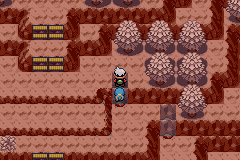
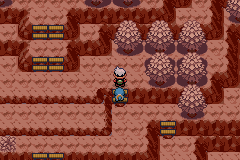
Use native yellow Jagged Pass stairs and clear upper landing tiles

Changed region(s): [[0.6417, 0.625, 0.7583, 0.875], [0.4667, 0.4375, 0.5542, 0.6562], [0.0, 0.8438, 0.0583, 0.9062]]

diff --git a/tools/hoenn/prepare_mach_bike.py b/tools/hoenn/prepare_mach_bike.py
@@ -82,12 +82,23 @@ def prepare(source):
                 decorative.append(dict(layout=layout['id'], x=x, y=y, tile=tile))
                 continue
             kind = 'stairs' if targets[behavior] == 'MB_BUMPY_SLOPE' else 'wood_bridge'
-            tile_definitions[(ap[secondary][0], ap[secondary][1], index)] = kind
-            # Elevation zero lets a staircase join the two original ledge levels.
-            new = mid if kind == 'stairs' else tile & ~0xC00
+            surface = None
+            if kind == 'stairs' and layout['id'] == 'LAYOUT_JAGGED_PASS':
+                # Acro hopping posts include a decoration on the upper floor.
+                # Do not put a stair there. Use the actual yellow lateral stair
+                # (Lavaridge 0x2AF) only on the cliff cells below that landing.
+                surface = 'landing' if mid in [0x303, 0x2FE] else 'yellow_stair'
+                new = 0x3271 if surface == 'landing' else 0x02AF
+            else:
+                tile_definitions[(ap[secondary][0], ap[secondary][1], index)] = kind
+                # Elevation zero lets a staircase join original ledge levels.
+                new = mid if kind == 'stairs' else tile & ~0xC00
             values[i] = new
             changed |= new != tile
-            replacements.append(dict(layout=layout['id'], x=x, y=y, before=tile, after=new, kind=kind))
+            entry = dict(layout=layout['id'], x=x, y=y, before=tile, after=new, kind=kind)
+            if surface:
+                entry['surface'] = surface
+            replacements.append(entry)
         if changed:
             stage(path, struct.pack('<' + 'H' * len(values), *values))
     for (attribute_path, graphics_path, index), kind in sorted(tile_definitions.items()):
@@ -189,6 +200,8 @@ def prepare(source):
                   audited_layouts=audits, cycling_entrances=entrances,
                   bicycle_quests=['Rydel in Mauville', 'Bike Voucher exchange in Cerulean'],
                   only_obtainable_bike='ITEM_MACH_BIKE', stairs_draw_below_player=True,
+                  jagged_pass_stair_reference=0x2AF, jagged_pass_landing_reference=0x271,
+                  upper_floor_stair_decorations_removed=5,
                   regional_gym_scaling_unchanged=True,
                   requires_new_save=True, full_story_validated=False, input_sha256=inputs,
                   original_sha256=originals, prepared_sha256={p: hashlib.sha256(v).hexdigest() for p, v in outputs.items()})

diff --git a/tools/hoenn/validate_crossing.py b/tools/hoenn/validate_crossing.py
@@ -411,8 +411,11 @@ if args.road_access:
         for cell in cells:
             x,y=cell['x']+7,cell['y']+7
             assert native('MapGridGetCollisionAt',x,y)==0,cell
-            assert native('MapGridGetMetatileBehaviorAt',x,y)==0,cell
-            if cell['kind']=='stairs':
+            landing=cell.get('surface')=='landing'
+            assert native('MapGridGetMetatileBehaviorAt',x,y)==(12 if landing else 0),cell
+            if cell['layout']=='LAYOUT_JAGGED_PASS':
+                assert native('MapGridGetMetatileIdAt',x,y)==(0x271 if landing else 0x2AF), ('Wrong stair/landing sprite',cell)
+            if cell['kind']=='stairs' and not landing:
                 assert native('MapGridGetMetatileLayerTypeAt',x,y)==1, ('Stair overlays player',cell)
             checked+=1
     # Real movement across formerly restricted rails, a filled side-hop gap,
@@ -426,6 +429,8 @@ if args.road_access:
         assert (position()[axis]>threshold if key==16 else position()[axis]<threshold), ('Acro replacement still blocked',name,position())
         assert lib.read8(s['gPlayerAvatar'])&1,('Not walking',name)
         picture(name+'-walkable-Acro-replacement-'+str(y))
+    warp('JaggedPass',17,10);native('SetPlayerAvatarTransitionFlags',1);step(30)
+    picture('JaggedPass-yellow-stair-and-clear-landing')
     items=(source/'include/constants/items.h').read_text()
     def itemid(name):return int(re.search(r'^\s*'+name+r'\s*=\s*(\d+)',items,re.M)[1])
     mach=itemid('ITEM_MACH_BIKE');acro=itemid('ITEM_ACRO_BIKE');voucher=itemid('ITEM_BIKE_VOUCHER')
@@ -469,6 +474,7 @@ if args.road_access:
         cycling_locked_without_bike=True,cycling_open_after_bike=True,reward_scripts=rewards,
         full_bicycle_quests_validated=False,only_mach_awarded=True,registered_bike_preserved=True,
         stairs_draw_below_player=True,aqua_missions_unchanged=True,
+        yellow_stair_matches_native_lateral=True,upper_landings_have_no_stair=True,
         physical_aqua_passages=2,full_campaign_validated=False))
     print('Bicycle mission gates, Acro replacements and Aqua road passages passed',flush=True)
 if args.team_stories:

diff --git a/tools/hoenn/test_connected_world.py b/tools/hoenn/test_connected_world.py
@@ -179,6 +179,11 @@ class ConnectedWorldTests(unittest.TestCase):
         self.assertEqual(len(prep['decorative_under_bridge_tiles_preserved']),4)
         self.assertEqual(prep['only_obtainable_bike'],'ITEM_MACH_BIKE')
         self.assertTrue(prep['stairs_draw_below_player'])
+        jagged=[c for c in prep['replacements']if c['layout']=='LAYOUT_JAGGED_PASS']
+        landings=[c for c in jagged if c['surface']=='landing']
+        self.assertEqual(len(landings),5)
+        self.assertTrue(all(c['after']==0x3271 for c in landings))
+        self.assertTrue(all(c['after']==0x02AF for c in jagged if c['surface']=='yellow_stair'))
         road=json.loads((VALIDATION/'road-access-preparation.json').read_text())
         self.assertEqual(len(road['relocations']),7)
         self.assertTrue(road['mission_flags_unchanged'])
@@ -188,6 +193,8 @@ class ConnectedWorldTests(unittest.TestCase):
         self.assertEqual(bike['converted_tiles'],81)
         self.assertEqual(bike['physical_replacement_walks'],5)
         self.assertTrue(bike['stairs_draw_below_player'])
+        self.assertTrue(bike['yellow_stair_matches_native_lateral'])
+        self.assertTrue(bike['upper_landings_have_no_stair'])
         self.assertEqual(bike['physical_aqua_passages'],2)
         self.assertTrue(bike['aqua_missions_unchanged'])
 

diff --git a/mods/hoenn/INTEGRATION.md b/mods/hoenn/INTEGRATION.md
@@ -13,9 +13,11 @@ Foram inspecionados 452 layouts Emerald. Os **81 trechos transitáveis que
 exigiam Acro Bike** viram pontes de madeira ou escadas: Rota 119, Safari Zone
 norte/sul e Jagged Pass. Os desenhos usam metatiles nativos, com comportamento
 normal de caminhada; as escadas conectam os níveis dos terrenos originais.
-As escadas amarelas usam a camada coberta nativa, abaixo dos sprites, para
-não desenhar degraus sobre a cabeça do personagem. Essa passagem é a pé,
-sem exigir Mach Bike.
+Em Jagged Pass, o degrau usa exatamente o tile amarelo da escada lateral
+(Lavaridge `0x2AF`). Os cinco antigos enfeites de salto sobre o patamar viram
+chão normal (`0x271`), deixando livre o quadrado acima da escada. Somente os
+trechos da encosta recebem degraus. Essa passagem é a pé, sem exigir Mach Bike.
+As escadas usam a camada coberta nativa, abaixo dos sprites.
 Um vão de salto lateral na Rota 119 ganha um segmento de ponte. Quatro tiles
 decorativos debaixo da ponte permanecem separados do caminho elevado.
 Não foram removidas as ladeiras que usam a Mach Bike.
@@ -31,13 +33,14 @@ atravessa as duas passagens Aqua e testa oito situações das ciclovias: quatro
 sem bicicleta e quatro com ela. Os dois scripts de recompensa entregam Mach
 Bike e não entregam Acro Bike; esses testes começam nos ramos de recompensa,
 portanto não certificam as duas missões completas desde o primeiro diálogo.
-As doze camadas reproduzem **323 arquivos** byte a byte, mantendo as 117
+As doze camadas reproduzem **321 arquivos** byte a byte, mantendo as 117
 conexões recíprocas da rede preparada.
 Passaram 20 testes offline e 104 verificações no emulador na ROM recompilada,
 incluindo as 840 equipes geradas dos ginásios e as 96 travessias de Surf.
 
 [Ponte da Rota 119](integration-validation/Route119-walkable-Acro-replacement-10.png),
 [escadas em Jagged Pass](integration-validation/JaggedPass-walkable-Acro-replacement-10.png),
+[degrau amarelo e patamar livre](integration-validation/JaggedPass-yellow-stair-and-clear-landing.png),
 [preparação da bicicleta](integration-validation/mach-bike-preparation.json) e
 [deslocamentos Aqua](integration-validation/road-access-preparation.json).
 
